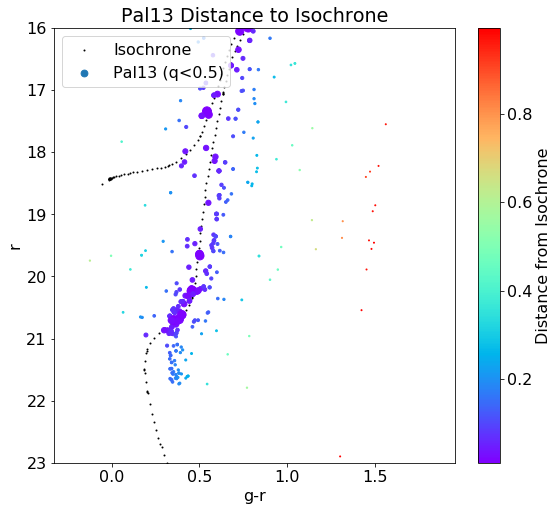
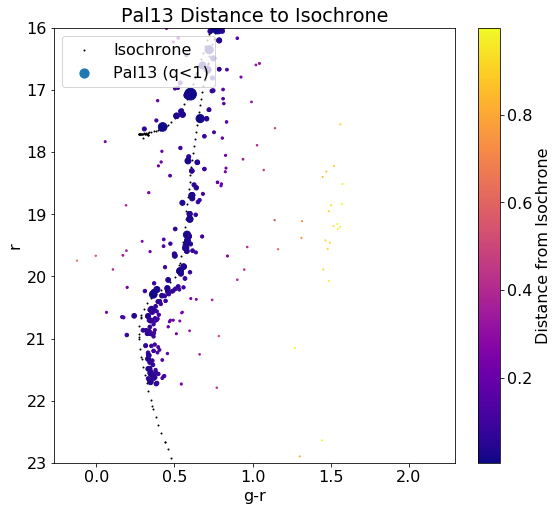
fix plots
Edit: I screwed up the plots for isochrone distances!

diff --git a/docs/_posts/2020-06-18-isochrones.md b/docs/_posts/2020-06-18-isochrones.md
@@ -55,5 +55,3 @@ We plot the probability overlay:
 ![boo1]({{site.baseurl}}/images/isochrone/boo1_prob.png)
 ![pal13]({{site.baseurl}}/images/isochrone/pal13_prob.png)
 ![w1]({{site.baseurl}}/images/isochrone/w1_prob.png)
-
-**WORK IN PROGRESS**
